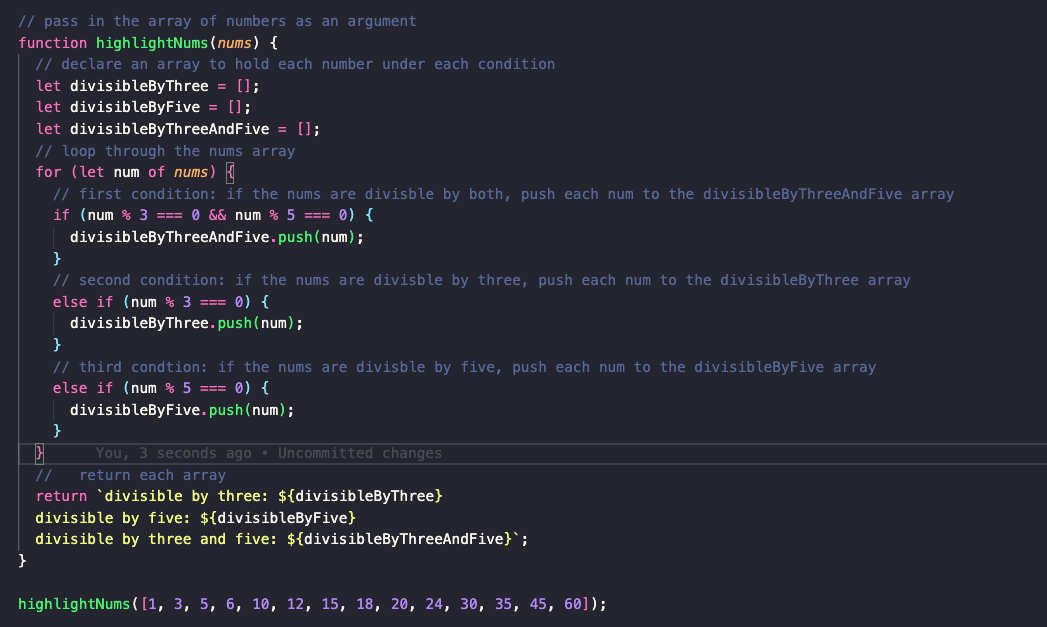
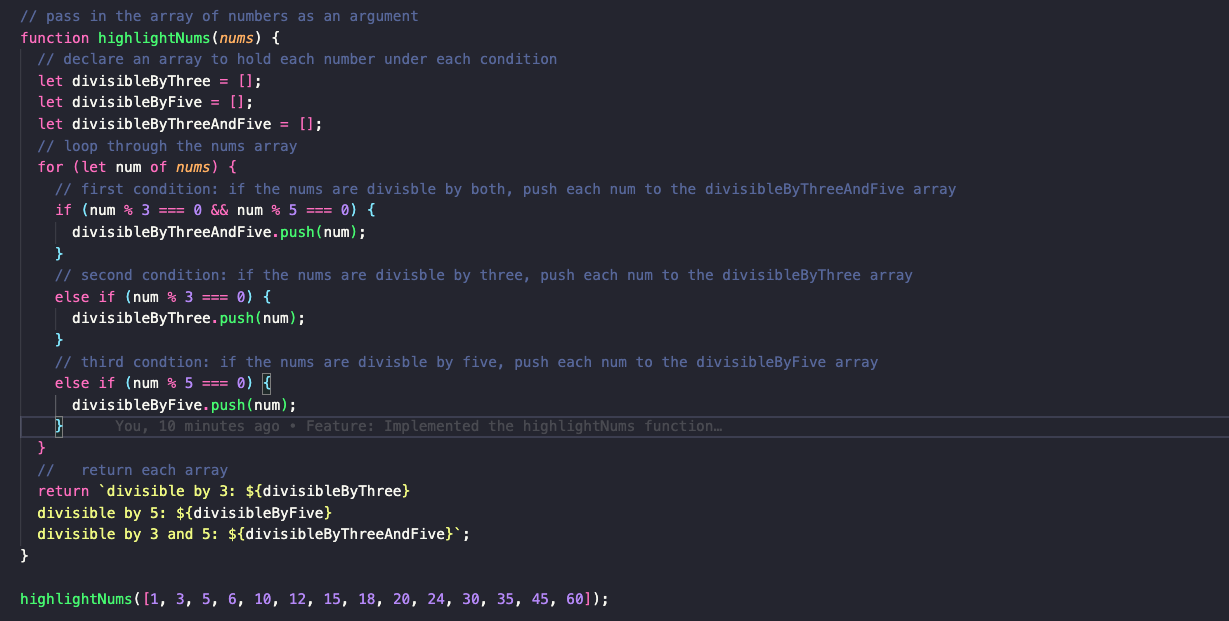
Feature: Implemented a refactored version of the first iteration of the code for task one

diff --git a/tasks.js b/tasks.js
@@ -35,12 +35,31 @@ function highlightNums(nums) {
     }
   }
   //   return each array
-  return `divisible by three: ${divisibleByThree}
-  divisible by five: ${divisibleByFive}
-  divisible by three and five: ${divisibleByThreeAndFive}`;
+  return `divisible by 3: ${divisibleByThree}
+  divisible by 5: ${divisibleByFive}
+  divisible by 3 and 5: ${divisibleByThreeAndFive}`;
 }
 
 highlightNums([1, 3, 5, 6, 10, 12, 15, 18, 20, 24, 30, 35, 45, 60]);
+
+// REFACTORED CODE
+
+function highlightNumsRefactored(nums) {
+  // declare a variable that filters and returns a new array that holds the multiples of three
+  let numsDivisibleByThree = nums.filter((num) => num % 3 === 0);
+  // declare a variable that filters and returns a new array that holds the multiples of five
+  let numsDivisibleByFive = nums.filter((num) => num % 5 === 0);
+  // declare a variable that filters and returns a new array that holds the multiples of three and five
+  let numsDivisibleByThreeAndFive = nums.filter(
+    (num) => num % 3 === 0 && num % 5 === 0
+  );
+  //   return each array
+  return `divisible by 3: ${numsDivisibleByThree}
+    divisible by 5: ${numsDivisibleByFive}
+    divisible by 3 and 5: ${numsDivisibleByThreeAndFive}`;
+}
+
+highlightNumsRefactored([1, 3, 5, 6, 10, 12, 15, 18, 20, 24, 30, 35, 45, 60]);
 
 // ----------------------------------------------------------------------------------
 // ==================================================================================
